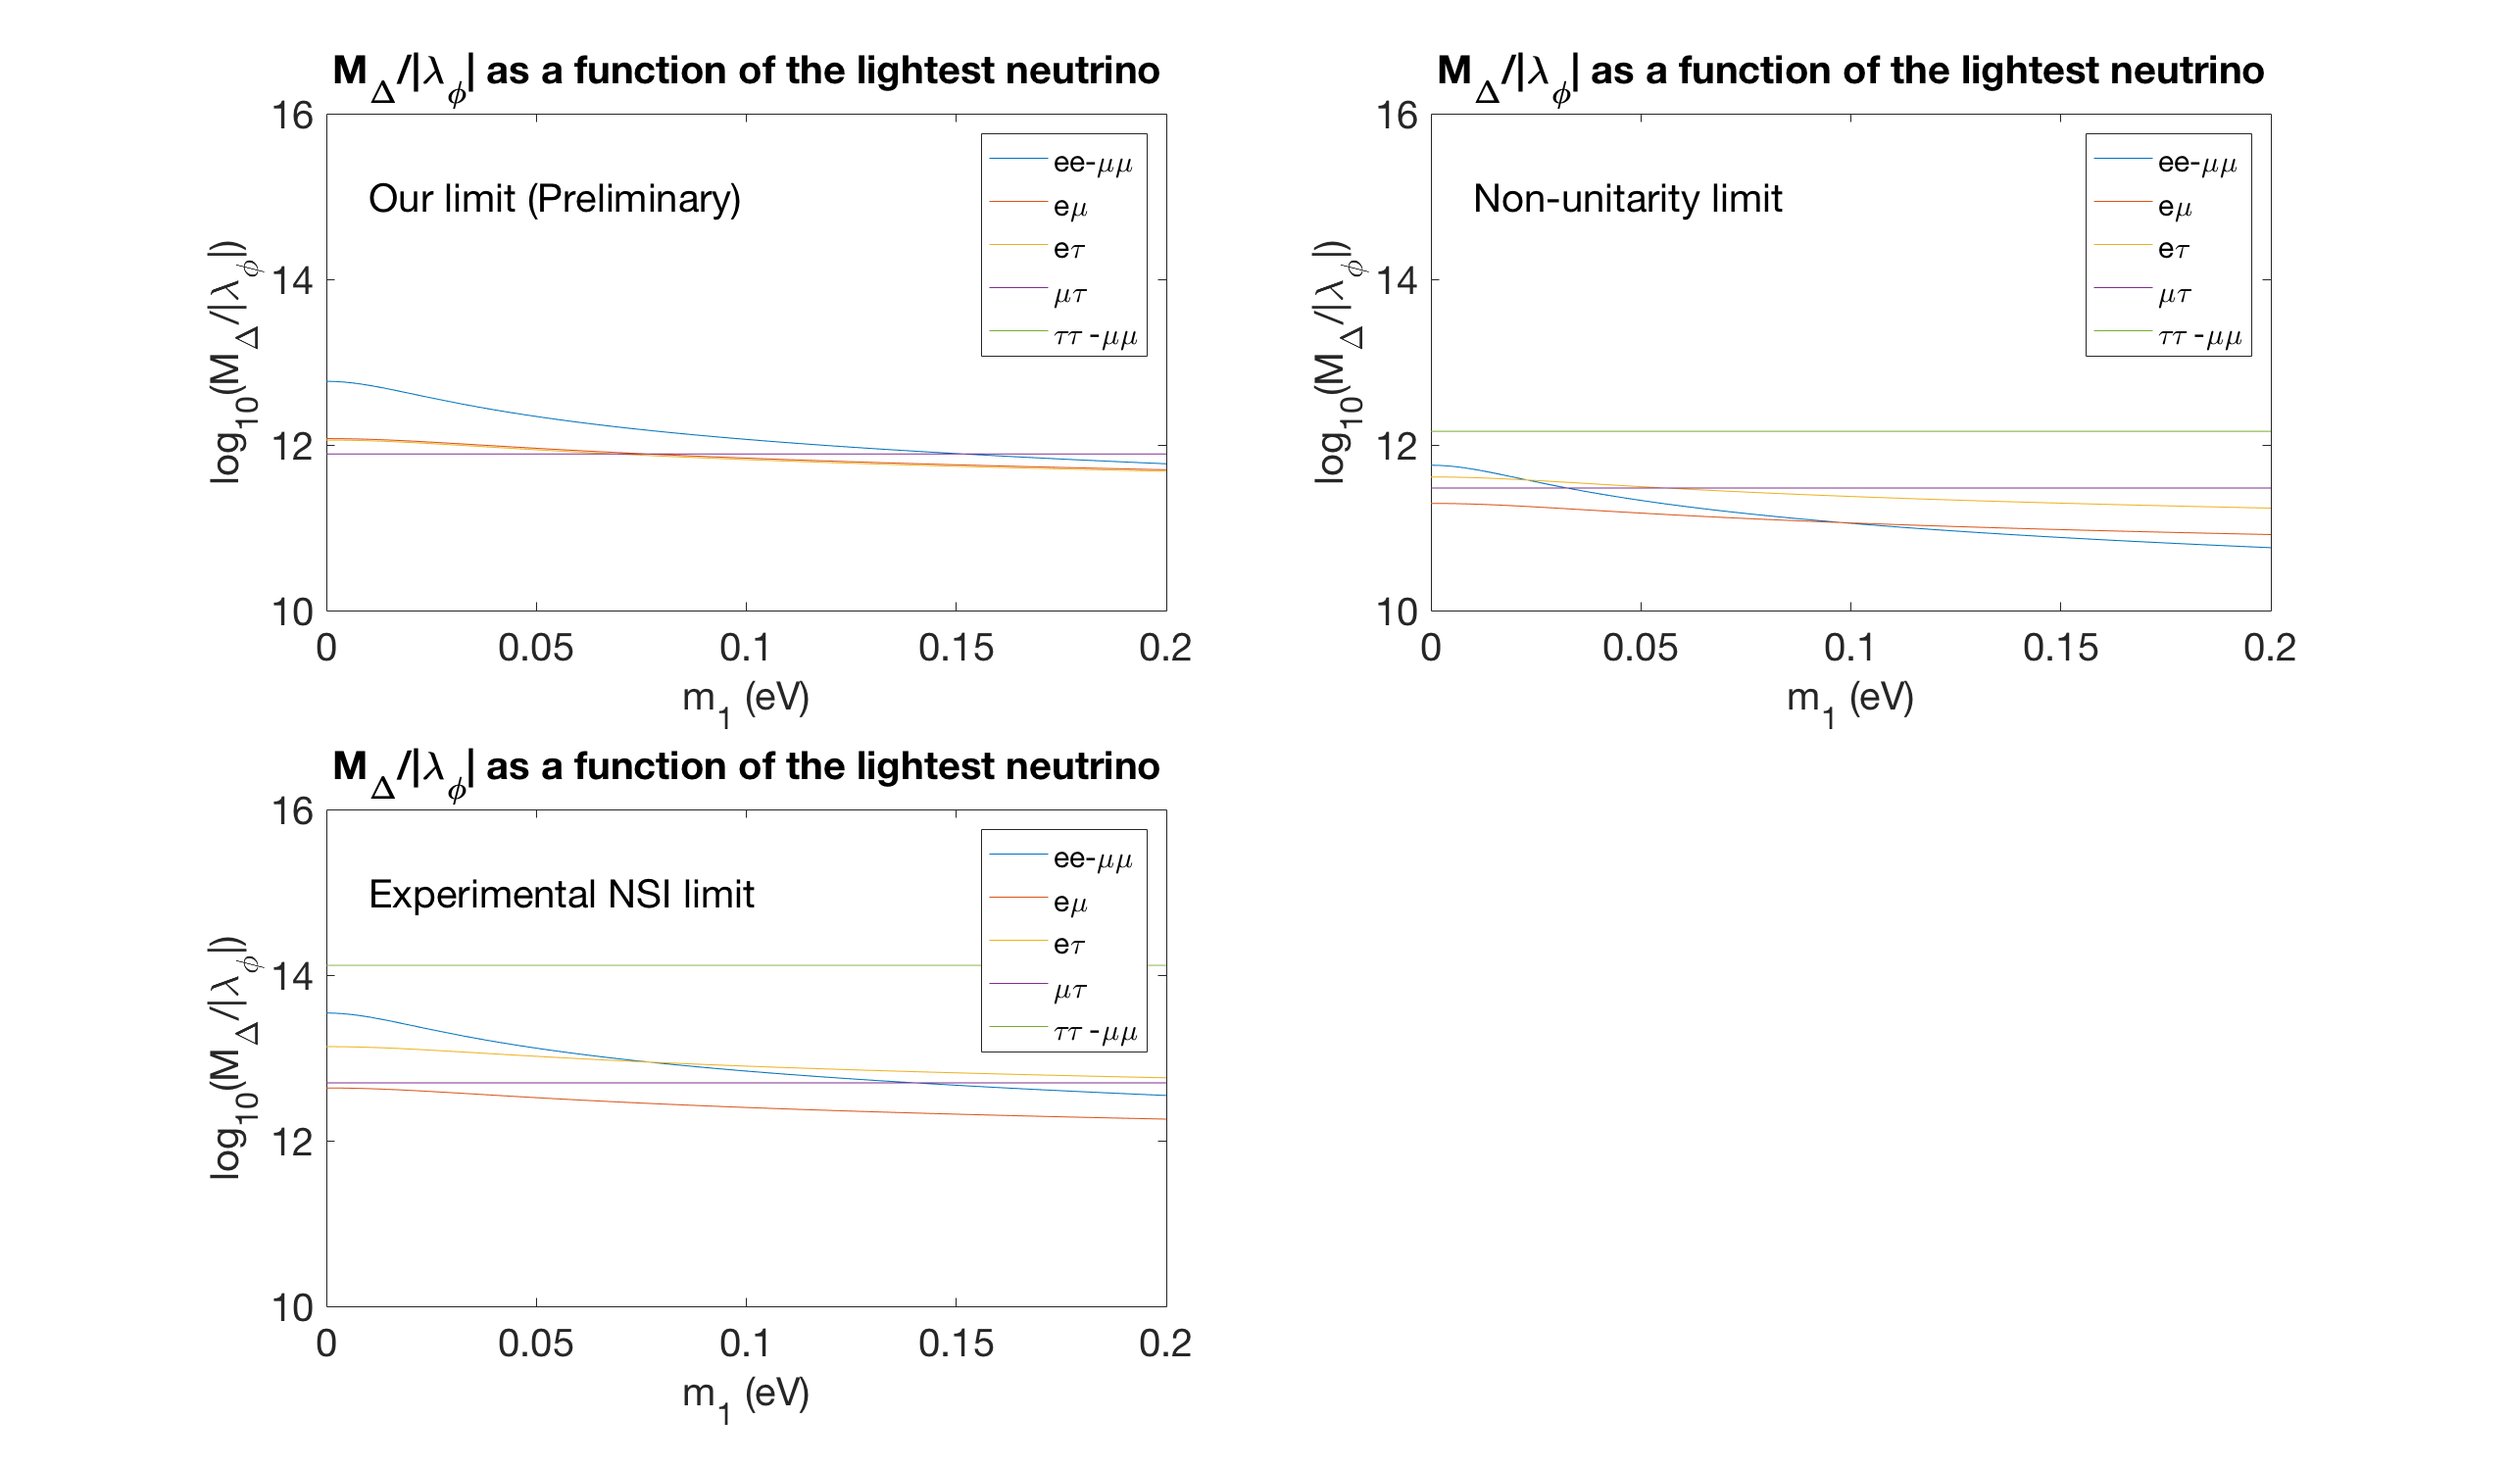
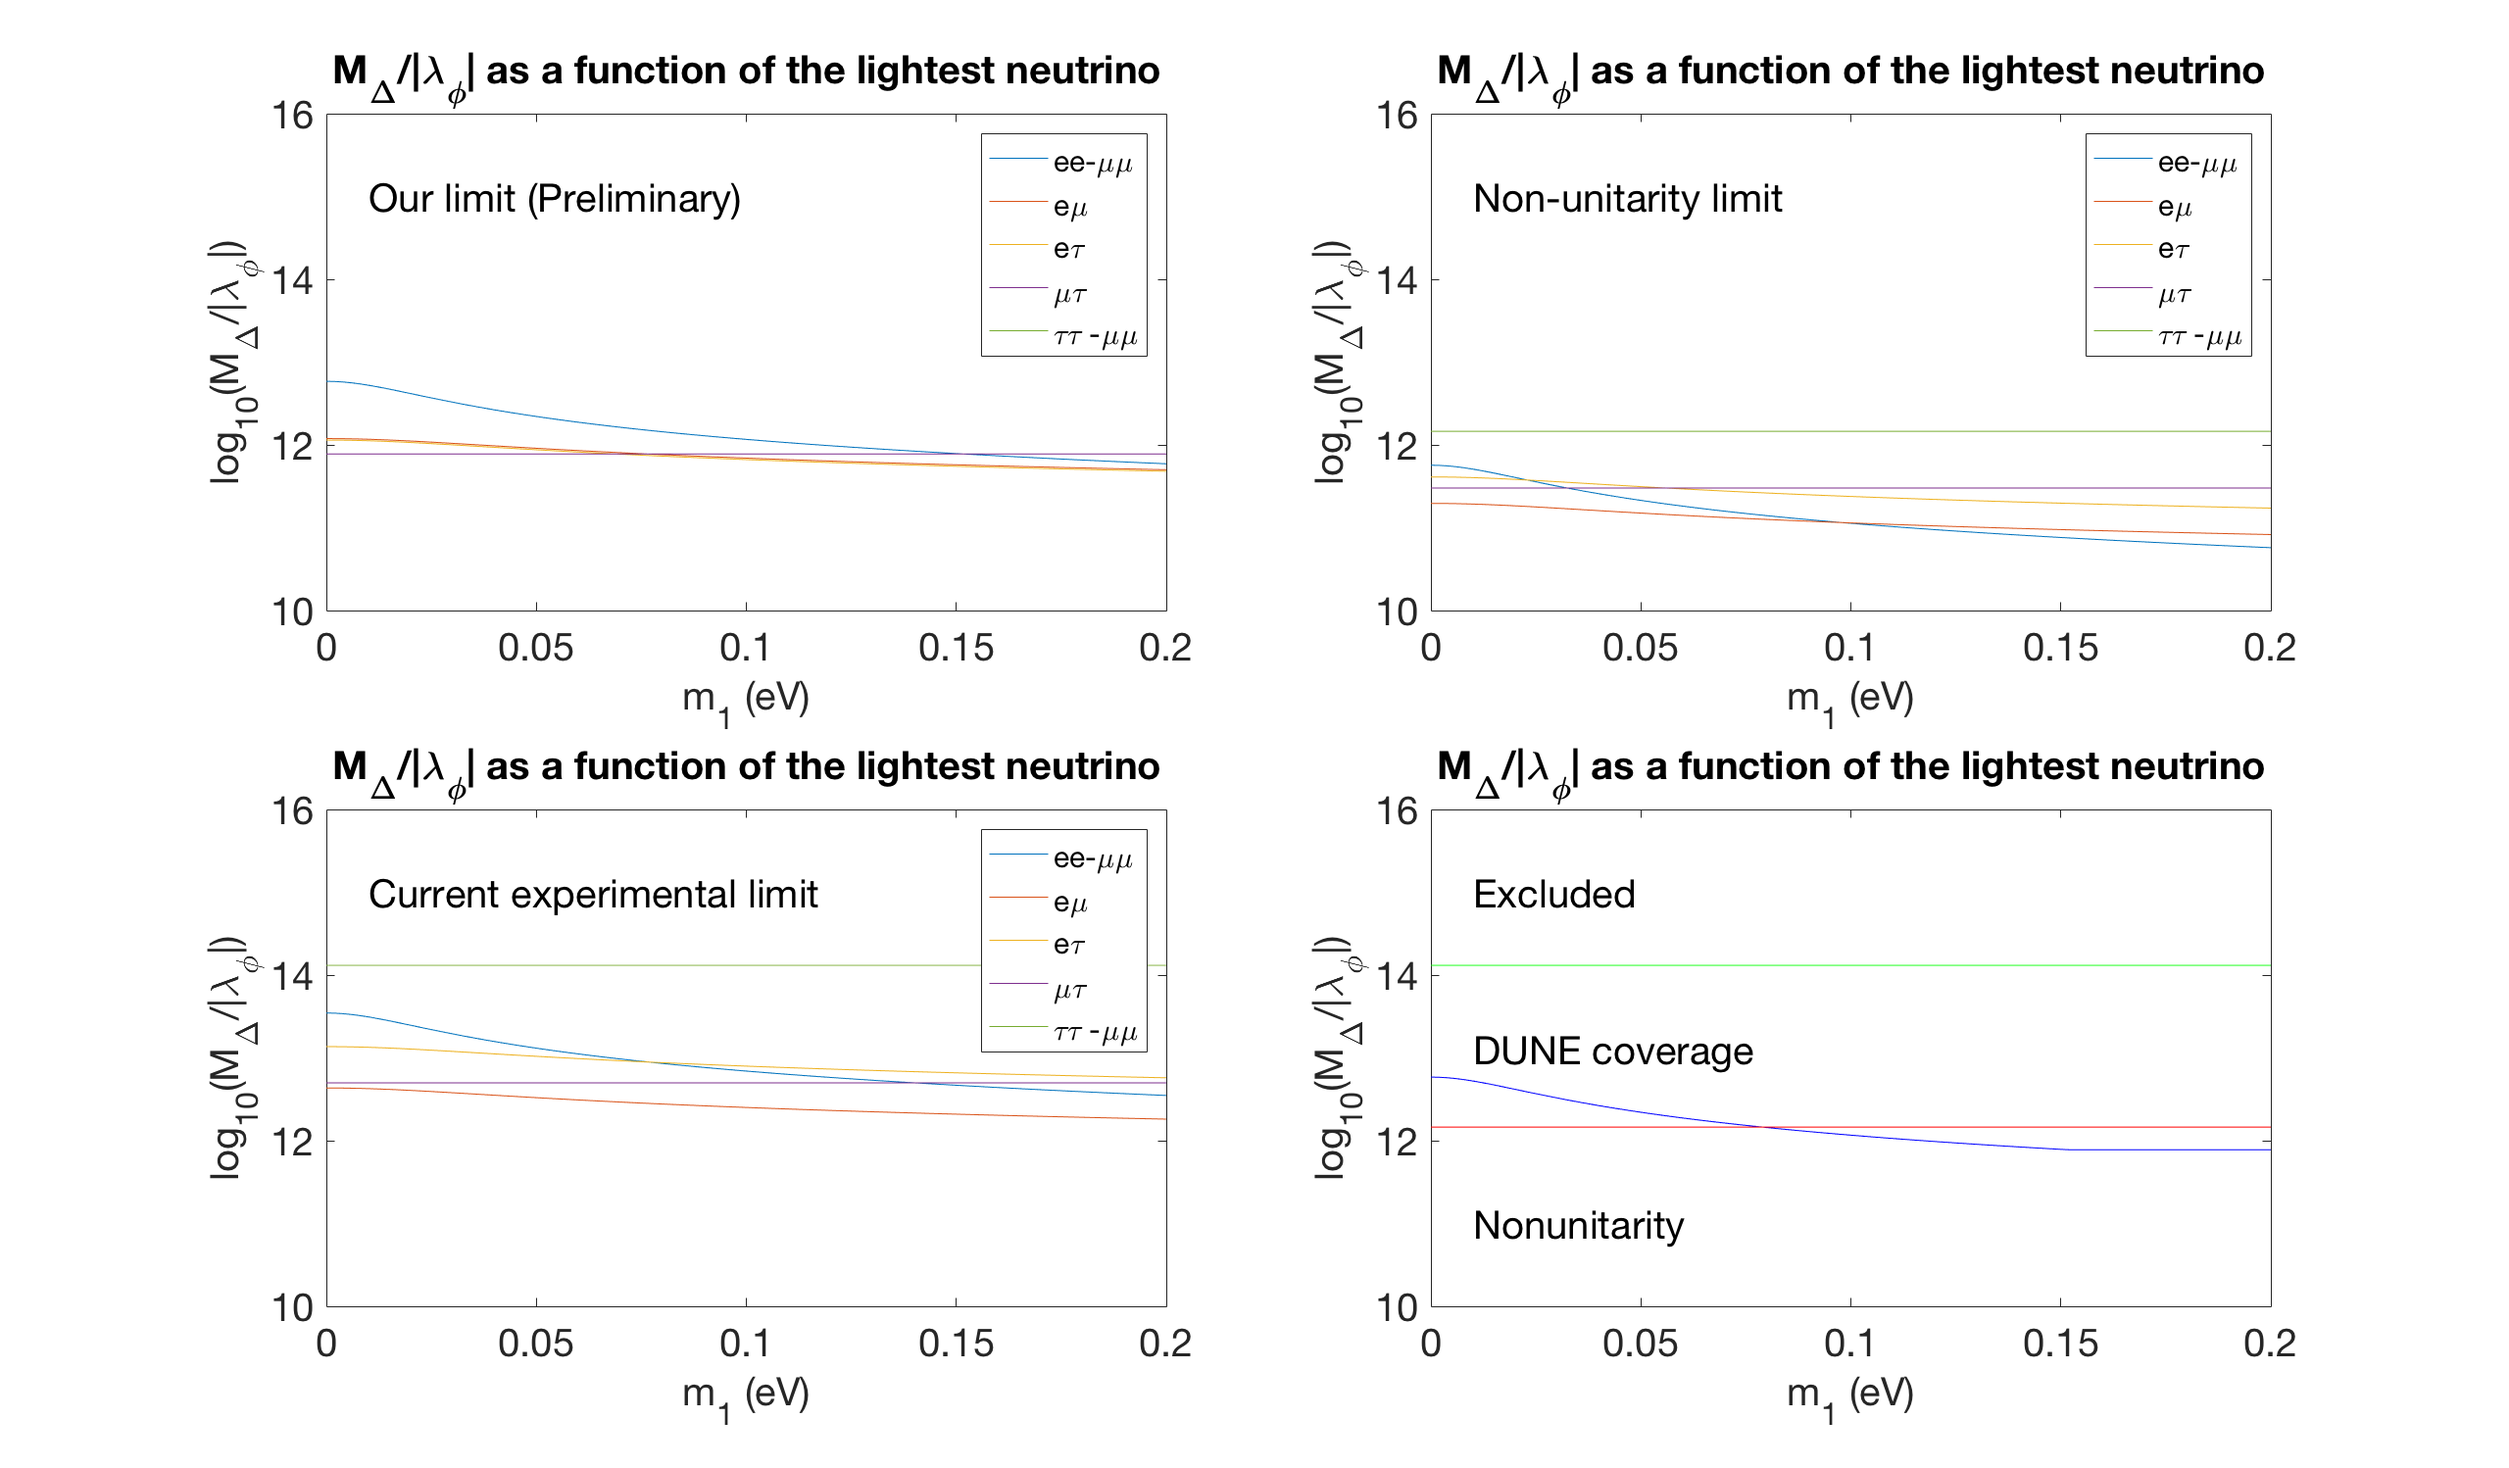
Plotting bux fixed. New plots added to NewPlots folder.

diff --git a/Nonunit6.m b/Nonunit6.m
@@ -10,7 +10,7 @@ stages=15;          %
 y_upper = 16;       % Upper limit of y-axis
 y_lower = 10;       % Lower limit of y-axis
 fs = 20;            % Font size of title and axes
-nh = true;         % Normal hierarchy
+nh = true;          % Normal hierarchy (false -> inverse hierarchy)
 ih = not(nh);       % Inverse hierarchy    (DON'T TOUCH!)
 s23Fix = false;     % If true, set best-fit value for s23
 deltaFix = false;   % likewise for deltaCP
@@ -23,6 +23,9 @@ tau = 3;
 %%%%%%%%%%%%%%%%%%
 % SET PARAMETERS %
 %%%%%%%%%%%%%%%%%%
+m1range = 0.0:0.002:0.20;   % Lightest neutrino mass range
+%initialMin = 16*ones(1,length(m1range));
+initialMin = zeros(1,length(m1range));
 
 % Values from 0907.0097 (Blennow-Fernandez-Martinez) Model-independent NSI
 eps_ee_max = 4.2;      eps_emu_max = 0.5*0.33;   eps_etau_max = 0.5*3.0;
@@ -45,8 +48,6 @@ eps = [[eps_ee_max         eps_emu_max         eps_etau_max];
        [conj(eps_emu_max)  eps_mumu_max        eps_mutau_max];
        [conj(eps_etau_max) conj(eps_mutau_max) eps_tautau_max]];
 
-m1range = 0.0:0.002:0.20;   % Lightest neutrino mass range
-
 % Check s23 and deltaCP fixing. If fixed, best-fit. Hierarchy-dependent.
 if s23Fix
    if nh
@@ -65,109 +66,114 @@ end
 
 D=zeros(length(m1range),2);
 D(:,1) = m1range;
-minValues=[m1range' zeros(length(m1range),1)];
+%minValues=[m1range' zeros(length(m1range),1)];
+minValues=initialMin;
 %%%%%%%%%%%%%%%%%%%%%%%%%%%
 % PLOT FOR LBNO/DUNE DATA %
 %%%%%%%%%%%%%%%%%%%%%%%%%%%
 figure;
 subplot(2,2,1);
-[p_ee, minValues] = RajatJaPlotti(e,e,m1range,s23range,deltarange,eps,D,minValues,ih);
+ee_dune = RajatJaPlotti(e,e,m1range,s23range,deltarange,eps,D,ih);
 fprintf('%d/%d (%.2f seconds elapsed)\n',counter, stages, cputime-t); counter = counter+1;
 hold on;
-[p_emu, minValues] = RajatJaPlotti(e,mu,m1range,s23range,deltarange,eps,D,minValues,ih);
+emu_dune = RajatJaPlotti(e,mu,m1range,s23range,deltarange,eps,D,ih);
 fprintf('%d/%d (%.2f seconds elapsed)\n',counter, stages, cputime-t); counter = counter+1;
-[p_etau, minValues] = RajatJaPlotti(e,tau,m1range,s23range,deltarange,eps,D,minValues,ih);
+etau_dune = RajatJaPlotti(e,tau,m1range,s23range,deltarange,eps,D,ih);
 fprintf('%d/%d (%.2f seconds elapsed)\n',counter, stages, cputime-t); counter = counter+1;
-%[p_mumu, minValues] = RajatJaPlotti(mu,mu,m1range,s23range,deltarange,eps,D,minValues,ih);
-%fprintf('%d/18 (%.2f seconds elapsed)\n',counter, cputime-t); counter = counter+1;
-[p_mutau, minValues] = RajatJaPlotti(mu,tau,m1range,s23range,deltarange,eps,D,minValues,ih);
+mutau_dune = RajatJaPlotti(mu,tau,m1range,s23range,deltarange,eps,D,ih);
 fprintf('%d/%d (%.2f seconds elapsed)\n',counter, stages, cputime-t); counter = counter+1;
-[p_tautau, minValues] = RajatJaPlotti(tau,tau,m1range,s23range,deltarange,eps,D,minValues,ih);
+tautau_dune = RajatJaPlotti(tau,tau,m1range,s23range,deltarange,eps,D,ih);
 fprintf('%d/%d (%.2f seconds elapsed)\n',counter, stages, cputime-t); counter = counter+1;
 
 % Beautifying the plots (showLegend, yMin, yMax, fontSize)
 Beautify(true,y_lower,y_upper,fs);
-ylabel('log_{10}(M_{\Delta}/|\lambda_{\phi}|)','FontSize',fs);
 text(0.01,15,'Our limit (Preliminary)','FontSize',fs)
-%hold off;
+hold off;
 
-minValuesTot = minValues(:,2);
+minValues = FindMin(minValues,ee_dune);
+minValues = FindMin(minValues,emu_dune);
+minValues = FindMin(minValues,etau_dune);
+minValues = FindMin(minValues,mutau_dune);
+minValues = FindMin(minValues,tautau_dune);
+%subplot(2,2,2);
+%plot(m1range, minValues);
+minValuesDune = minValues;
+
 %%%%%%%%%%%%%%%%%%%%%%%%%%%%%%%%%%%%%
 % PLOT FOR MAXIMAL NON-UNITARY DATA %
 %%%%%%%%%%%%%%%%%%%%%%%%%%%%%%%%%%%%%
-minValues=[m1range' zeros(length(m1range),1)];
+minValues=initialMin;
 
 % figure;
 subplot(2,2,2);
-[p_ee_nonunit, minValues] = RajatJaPlotti(e,e,m1range,s23range,deltarange,eps_nonunit,D,minValues,ih);
+ee_nonunit = RajatJaPlotti(e,e,m1range,s23range,deltarange,eps_nonunit,D,ih);
+fprintf('%d/%d (%.2f seconds elapsed)\n',counter, stages, cputime-t); counter = counter+1;
 hold on;
+emu_nonunit = RajatJaPlotti(e,mu,m1range,s23range,deltarange,eps_nonunit,D,ih);
 fprintf('%d/%d (%.2f seconds elapsed)\n',counter, stages, cputime-t); counter = counter+1;
-[p_emu_nonunit, minValues] = RajatJaPlotti(e,mu,m1range,s23range,deltarange,eps_nonunit,D,minValues,ih);
+etau_nonunit = RajatJaPlotti(e,tau,m1range,s23range,deltarange,eps_nonunit,D,ih);
 fprintf('%d/%d (%.2f seconds elapsed)\n',counter, stages, cputime-t); counter = counter+1;
-[p_etau_nonunit, minValues] = RajatJaPlotti(e,tau,m1range,s23range,deltarange,eps_nonunit,D,minValues,ih);
+mutau_nonunit = RajatJaPlotti(mu,tau,m1range,s23range,deltarange,eps_nonunit,D,ih);
 fprintf('%d/%d (%.2f seconds elapsed)\n',counter, stages, cputime-t); counter = counter+1;
-%[p_mumu, minValues] = RajatJaPlotti(mu,mu,m1range,s23range,deltarange,eps_nonunit,D,minValues,ih);
-%fprintf('%d/18 (%.2f seconds elapsed)\n',counter, cputime-t); counter = counter+1;
-[p_mutau_nonunit, minValues] = RajatJaPlotti(mu,tau,m1range,s23range,deltarange,eps_nonunit,D,minValues,ih);
-fprintf('%d/%d (%.2f seconds elapsed)\n',counter, stages, cputime-t); counter = counter+1;
-[p_tautau_nonunit, minValues] = RajatJaPlotti(tau,tau,m1range,s23range,deltarange,eps_nonunit,D,minValues,ih);
+tautau_nonunit = RajatJaPlotti(tau,tau,m1range,s23range,deltarange,eps_nonunit,D,ih);
 fprintf('%d/%d (%.2f seconds elapsed)\n',counter, stages, cputime-t); counter = counter+1;
 
 Beautify(true,y_lower,y_upper,fs);
-ylabel('log_{10}(M_{\Delta}/|\lambda_{\phi}|)','FontSize',fs);
 text(0.01,15,'Non-unitarity limit','FontSize',fs)
-%hold off;
+hold off;
 
-minValuesNonUnit = minValues(:,2);
+minValues = FindMin(minValues,ee_nonunit);
+minValues = FindMin(minValues,emu_nonunit);
+minValues = FindMin(minValues,etau_nonunit);
+minValues = FindMin(minValues,mutau_nonunit);
+minValues = FindMin(minValues,tautau_nonunit);
+minValuesNonunit = minValues;
 
 %%%%%%%%%%%%%%%%%%%%%%%%%%%%%%%%%%%%%%
 % PLOT FOR CURRENT EXPERIMENTAL DATA %
 %%%%%%%%%%%%%%%%%%%%%%%%%%%%%%%%%%%%%%
 
-minValues=[m1range' zeros(length(m1range),1)];
-
-%figure;
+minValues=initialMin;
 subplot(2,2,3);
-[p_ee_exp, minValues] = RajatJaPlotti(e,e,m1range,s23range,deltarange,eps_exp,D,minValues,ih);
+ee_exp = RajatJaPlotti(e,e,m1range,s23range,deltarange,eps_exp,D,ih);
+fprintf('%d/%d (%.2f seconds elapsed)\n',counter, stages, cputime-t); counter = counter+1;
 hold on;
+emu_exp = RajatJaPlotti(e,mu,m1range,s23range,deltarange,eps_exp,D,ih);
 fprintf('%d/%d (%.2f seconds elapsed)\n',counter, stages, cputime-t); counter = counter+1;
-[p_emu_exp, minValues] = RajatJaPlotti(e,mu,m1range,s23range,deltarange,eps_exp,D,minValues,ih);
+etau_exp = RajatJaPlotti(e,tau,m1range,s23range,deltarange,eps_exp,D,ih);
 fprintf('%d/%d (%.2f seconds elapsed)\n',counter, stages, cputime-t); counter = counter+1;
-[p_etau_exp, minValues] = RajatJaPlotti(e,tau,m1range,s23range,deltarange,eps_exp,D,minValues,ih);
+mutau_exp = RajatJaPlotti(mu,tau,m1range,s23range,deltarange,eps_exp,D,ih);
 fprintf('%d/%d (%.2f seconds elapsed)\n',counter, stages, cputime-t); counter = counter+1;
-%[p_mumu, minValues] = RajatJaPlotti(mu,mu,m1range,s23range,deltarange,eps_exp,D,minValues,ih);
-%fprintf('%d/18 (%.2f seconds elapsed)\n',counter, cputime-t); counter = counter+1;
-[p_mutau_exp, minValues] = RajatJaPlotti(mu,tau,m1range,s23range,deltarange,eps_exp,D,minValues,ih);
-fprintf('%d/%d (%.2f seconds elapsed)\n',counter, stages, cputime-t); counter = counter+1;
-[p_tautau_exp, minValues] = RajatJaPlotti(tau,tau,m1range,s23range,deltarange,eps_exp,D,minValues,ih);
+tautau_exp = RajatJaPlotti(tau,tau,m1range,s23range,deltarange,eps_exp,D,ih);
 fprintf('%d/%d (%.2f seconds elapsed)\n',counter, stages, cputime-t); counter = counter+1;
 
 Beautify(true,y_lower,y_upper,fs);
-ylabel('log_{10}(M_{\Delta}/|\lambda_{\phi}|)','FontSize',fs);
-text(0.01,15,'Experimental NSI limit','FontSize',fs)
-%hold off;
+text(0.01,15,'Current experimental limit','FontSize',fs)
+hold off;
 
-minValuesExp = minValues(:,2);
-
+minValues = FindMin(minValues,ee_exp);
+minValues = FindMin(minValues,emu_exp);
+minValues = FindMin(minValues,etau_exp);
+minValues = FindMin(minValues,mutau_exp);
+minValues = FindMin(minValues,tautau_exp);
+minValuesExp = minValues;
 
 %%%%%%%%%%%%%%%%%%%
 % COMBINE RESULTS %
 %%%%%%%%%%%%%%%%%%%
-figure;
+%figure;
 subplot(2,2,4);
 %area(m1range,log10(minValuesExp),'FaceColor','g');
-plot(m1range,log10(minValuesExp),'Color','g');
+plot(m1range,minValuesExp,'Color','g');
 hold on;
 %area(m1range,log10(minValuesTot),'FaceColor', [0.5 0.5 0.5]); % Grey = [0.5 0.5 0.5]
 %area(m1range,log10(minValuesTot),'FaceColor', 'c');
 %area(m1range,log10(minValuesNonUnit),'FaceColor','r');
-plot(m1range,log10(minValuesTot),'Color', 'c');
-plot(m1range,log10(minValuesNonUnit),'Color','r');
+plot(m1range,minValuesDune,'Color', 'b');
+plot(m1range,minValuesNonunit,'Color','r');
 Beautify(false,y_lower,y_upper,20);
-ylabel('log_{10}(M_{\Delta}/|\lambda_{\phi}|)','FontSize',fs);
-%text(0.08,15.0,'Excluded','FontSize',fs)
-%text(0.08,13.1,'Accessible by DUNE','FontSize',fs)
-%text(0.08,12.4,'NSI not from nonunitarity','FontSize',fs-5)
-%text(0.08,11,'Nonunitarity','FontSize',fs)
-legend('{\fontsize{10}Experimental limit}', '{\fontsize{10}DUNE coverage}','{\fontsize{10}Non-unitary limit}','Location','NorthEast');
+text(0.01,15.0,'Excluded','FontSize',fs)
+text(0.01,13.1,'DUNE coverage','FontSize',fs)
+text(0.01,11,'Nonunitarity','FontSize',fs)
+%legend('{\fontsize{10}Experimental limit}', '{\fontsize{10}DUNE coverage}','{\fontsize{10}Non-unitary limit}','Location','NorthEast');
 hold off;

diff --git a/RajatJaPlotti.m b/RajatJaPlotti.m
@@ -6,7 +6,7 @@
 %      matter NSI parameter (alpha, beta).
 % 
 % NOTE: s23range and deltarange can be single-valued too.
-function [p, minValues] = RajatJaPlotti(alpha,beta,m1range,s23range,deltarange,eps,D,minValues,nh)
+function values = RajatJaPlotti(alpha,beta,m1range,s23range,deltarange,eps,D,nh)
 % Electron number density of Earth: 10^-30 m^-3 in natural units
 % Note: 1/GeV = 0.197e-15 m and 1 m = 5076142.13198 eV
 ne = 7.645e-18*1.0e27;  % In eV^3
@@ -48,11 +48,12 @@ for m1 = m1range
             end
             result = sqrt(result);
             D(j,2) = result;
-            if(result > minValues(j,2)) % Use '<' for maxValues. Then, also must change initial values.
-                minValues(j,2) = result; 
-            end
+%            if(result > minValues(j,2)) % Use '<' for maxValues. Then, also must change initial values.
+%                minValues(j,2) = result; 
+%            end
         end
     end
     j=j+1;
 end
-p = plot(D(:,1),log10(D(:,2)));
+values = log10(D(:,2));
+plot(m1range, values);

diff --git a/Beautify.m b/Beautify.m
@@ -4,6 +4,7 @@
 function Beautify(showLegend,low, high, fontsize)
 set(gca,'FontSize',fontsize);
 xlabel('m_1 (eV)','FontSize',fontsize);
+ylabel('log_{10}(M_{\Delta}/|\lambda_{\phi}|)','FontSize',fontsize);
 title('M_{\Delta}/|\lambda_{\phi}| as a function of the lightest neutrino','FontSize',fontsize);
 ylim([low high]);
 if(showLegend)

diff --git a/FindMin.m b/FindMin.m
@@ -1,0 +1,11 @@
+% (C) Timo Karkkainen 2017
+% Helper function.
+
+function values = FindMin(currentMin, newStuff)
+
+values = currentMin;
+for j=1:length(values)
+    if(values(j) > newStuff(j))
+       values(j) = newStuff(j); 
+    end
+end
